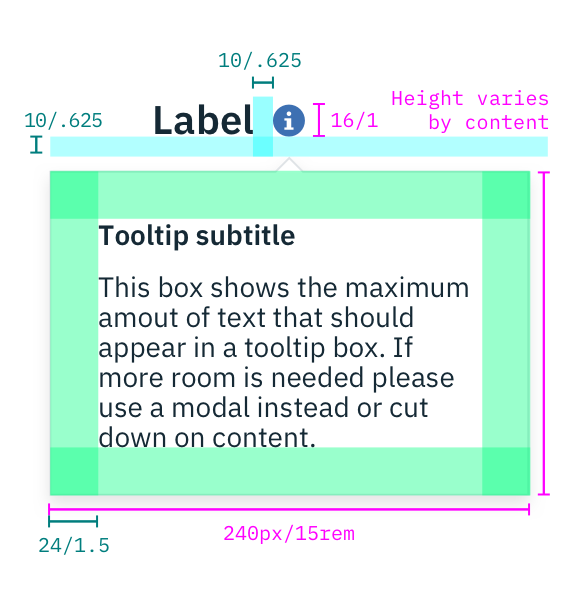
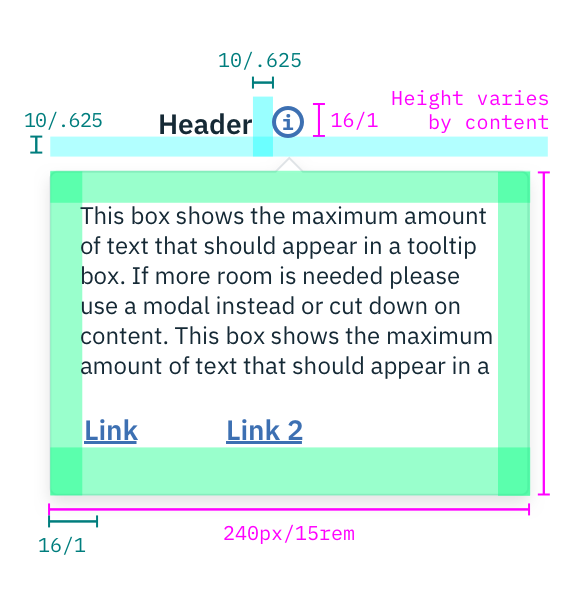
New Tooltip variation:docs

diff --git a/src/content/components/tooltip/usage.md b/src/content/components/tooltip/usage.md
@@ -1,12 +1,36 @@
-## Content
 
-### Length
+## Usage
+| Type               | Purpose                                        |
+|--------------------|------------------------------------------------|
+| Definition Tooltip | Describes the meaning of a term or icon button. It appears on hover and is limited to read-only text.                                                                                                                                                                                                       |
+| Interactive Tooltip|  Provides additional information relevant to the context on `click.` It supports more flexible elements including Buttons and Links.                                                                                                                                                                                                                              |
 
-Due to its disruptive nature, Tooltip content should be kept to an absolute minimum. For larger sets of content or data, consider using a [Passive Modal.](/components/modal) The Modal will be triggered when the user clicks the information icon, as opposed to the regular `:hover` interaction of a generic Tooltip. 
 
-![Tool tip on click](images/tooltip-usage-1.gif)
-_Passive Modal triggered on click_
 
-### Interactive elements
+### Definition Tooltip
+The primary purpose of a Definition Tooltip is to provide additional help or context to an item. Their primary use case is for defining terms, such as within a Form where the label needs an additional definition. They can also be used to define an icon button. We recommend Definition Tooltips contain read-only text that is kept to a minimum. These Tooltips appear on `hover`. If you need to include other components within a Tooltip, refer to the Interactive Tooltip below.
 
-The primary purpose of a Tooltip is to provide additional help or context to an item. Therefore, they should contain read-only text. The use of interactive elements, such as Buttons or Links, is discouraged.
+---
+***
+> 
+![example of an interactive tooltip](images/tooltip-usage-2.png)
+
+_Definition Tooltip used to define a Form label_
+
+---
+***
+> 
+![example of an interactive tooltip](images/tooltip-usage-4.png)
+
+_Definition Tooltip used to define an icon_
+
+
+### Interactive Tooltip
+Interactive Tooltips can contain text and other interactive elements such as a Button or a Link. They should only appear on mouse `click`, due to the fact that there are multiple click targets within the Tooltip.  
+
+---
+***
+> 
+![example of an interactive tooltip](images/tooltip-usage-3.png)
+
+_Example of an Interactive Tooltip_

diff --git a/src/content/components/tooltip/style.md b/src/content/components/tooltip/style.md
@@ -3,10 +3,12 @@
 | Attribute              | SCSS      | HEX       |
 |--------------------|-----------|-----------|
 | Icon               | $brand-01 | #3d70b2   |
-| Icon: hover        | $brand-02 | #5596e6   |
-| Text               | $text-01  | #152935   |
-| Tooltip background | $ui-01    | #ffffff   |
-| Tooltip border     | $ui-04    | #8897a2   |
+| Label               | $text-01  | #152935   |
+| Background: Definition Tooltip  | $inverse-02 | #272d33 |
+| Background: Interactive Tooltip  | $ui-01    | #ffffff   |
+| Text: Definition Tooltip  | $inverse-01 | #ffffff   |
+| Text: Interactive Tooltip | $text-01  | #152935   |
+| Tooltip border     | $ui-03    | #dfe3e6   |
 
 ---
 ***
@@ -21,9 +23,8 @@ Tooltip labels and text should be set in sentence case.
 
 | Property | Font-size (px/rem)     | Font-weight  | Type style |
 |----------|-----------------|--------------|---|
-| Label   | 16 / 1     | Semi-Bold / 600   | Epsilon  |
-| Subtitle    | 14 / 0.875 | Semi-Bold / 600   | Zeta  |
-| Text     | 14 / 0.875 | Normal / 400 | - |
+| Label   | 14 / 0.875    | Semi-Bold / 600   | Zeta |
+| Text     | 12 / 0.75 | Normal / 400 | Caption |
 
 ## Layer
 
@@ -35,19 +36,28 @@ Tooltip labels and text should be set in sentence case.
 
 | Property                | px  | rem   |
 |-------------------------|-----|-------|
-| Tooltip: width          | 240 | 15    |
-| Tooltip: height         | Varies based on content | - |
+| Height: Tooltip  | Varies based on content  | -    |
+| Width: Definition Tooltip  | 170 | 0.625 |
 | Icon: width & height    | 16  | 1     |
 | Spacing: label & icon   | 10  | 0.625 |
 | Spacing: icon & Tooltip | 10  | 0.625 |
-| Spacing: internal       | 24  | 1.5   |
+| Spacing: Definition Tooltip internal       | 8  | 0.5   |
+| Spacing: Interactive Tooltip internal       | 16  | 1   |
+
 
 ---
 ***
 >  
-![Structure and spacing measurements for a tooltip](images/tooltip-style-2.png)
+![Structure and spacing measurements for a definition tooltip](images/tooltip-style-4.png)
 
-_Structure and spacing measurements for a Tooltip | px / rem_
+_Structure and spacing measurements for a Definition Tooltip | px / rem_
+
+---
+***
+>  
+![Structure and spacing measurements for an Interactive tooltip](images/tooltip-style-2.png)
+
+_Structure and spacing measurements for an Interactive Tooltip | px / rem_
 
 ### Placement
 
